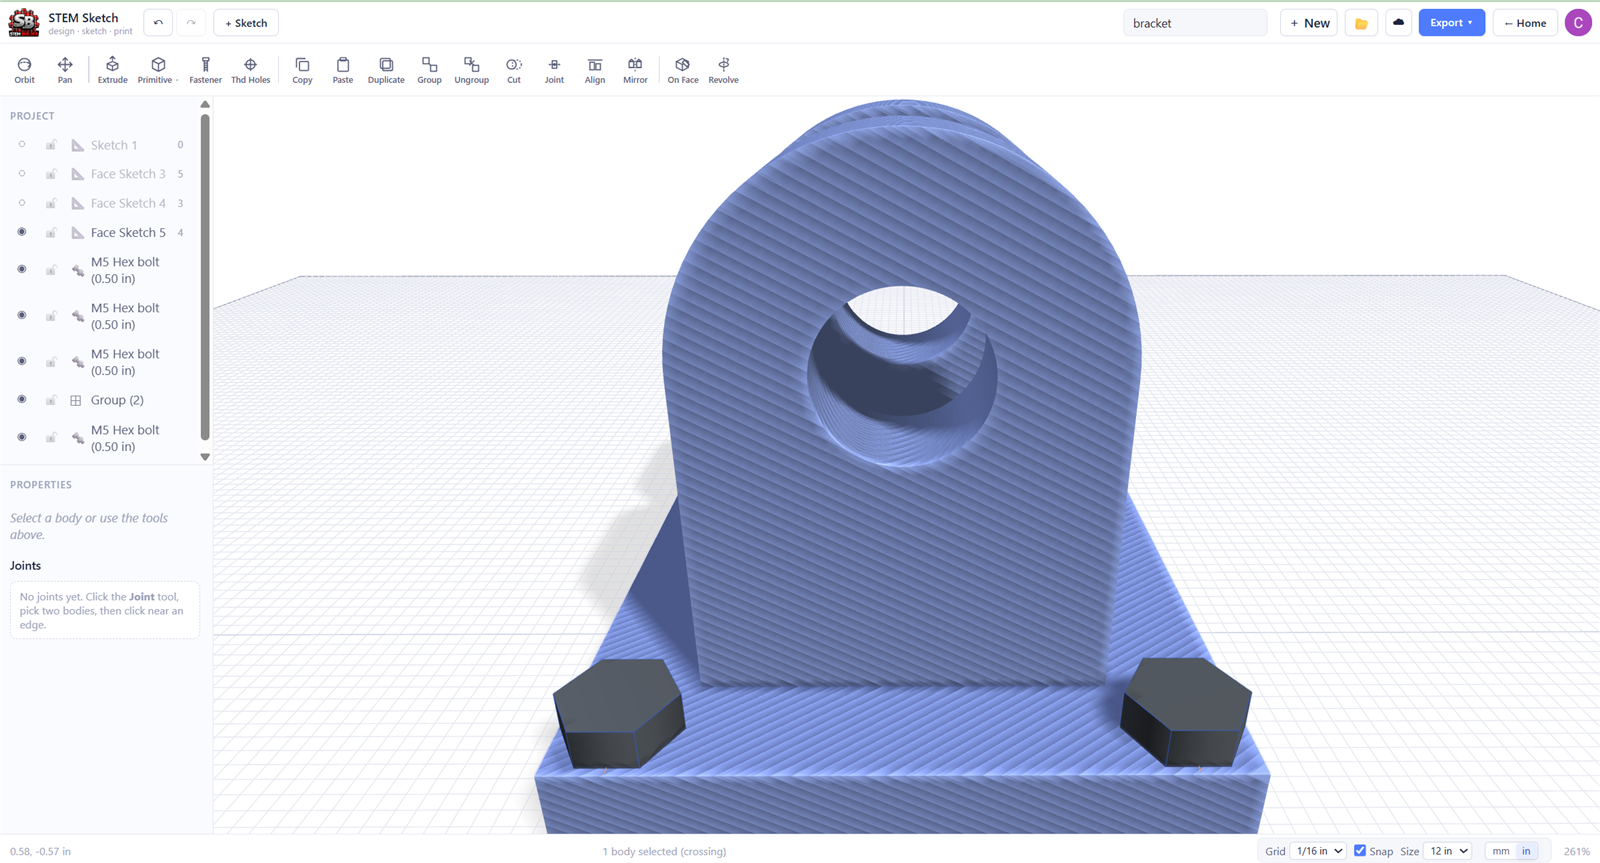
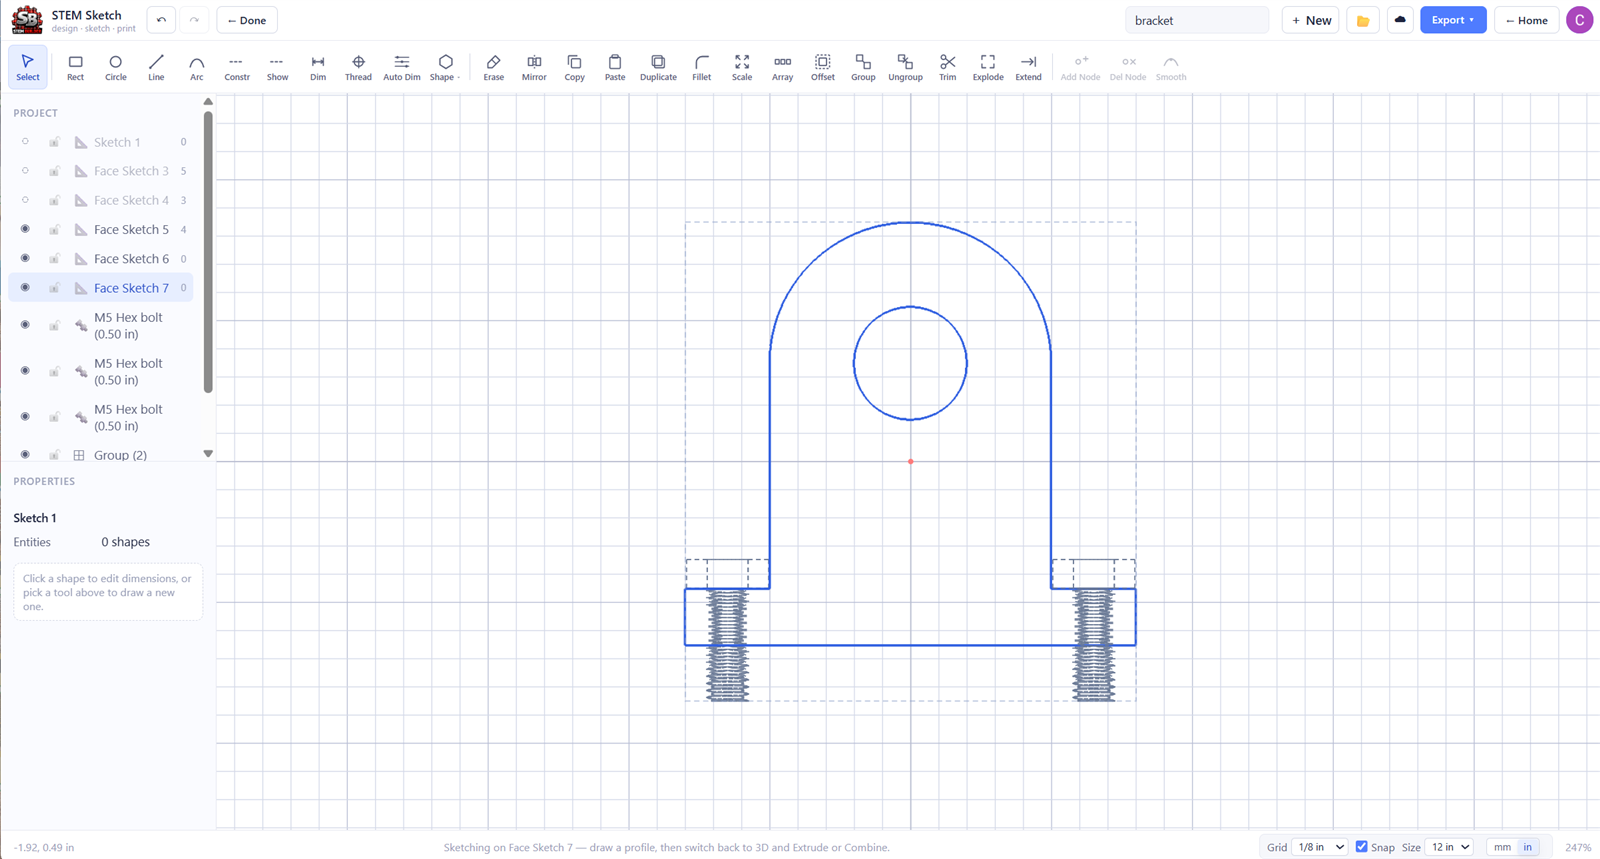
polish(for-teachers): complete STEM Sketch gallery - sketch, 3D, slicer

diff --git a/lib/marketing/tools.ts b/lib/marketing/tools.ts
@@ -70,14 +70,17 @@ export const TOOLS: MarketingTool[] = [
     ],
     gallery: [
       {
-        label: "Designing a bracket in STEM Sketch — real M5 hex bolts included",
+        label: "Sketching the bracket profile — orthographic drawing, on screen",
         src: "/marketing/stem-sketch/gallery-1.png",
       },
       {
-        label: "The same part in the slicer, ready for the 3D printer",
+        label: "The same bracket in 3D — real M5 hex bolts included",
         src: "/marketing/stem-sketch/gallery-2.png",
       },
-      { label: "Photo — 3D-printed student designs" },
+      {
+        label: "Ready for the 3D printer — the exported part in the slicer",
+        src: "/marketing/stem-sketch/gallery-3.png",
+      },
     ],
     demoVideo: "Demo video — from blank canvas to printable part (2 min)",
     demoVideoSrc: "/marketing/stem-sketch/demo.mp4",
